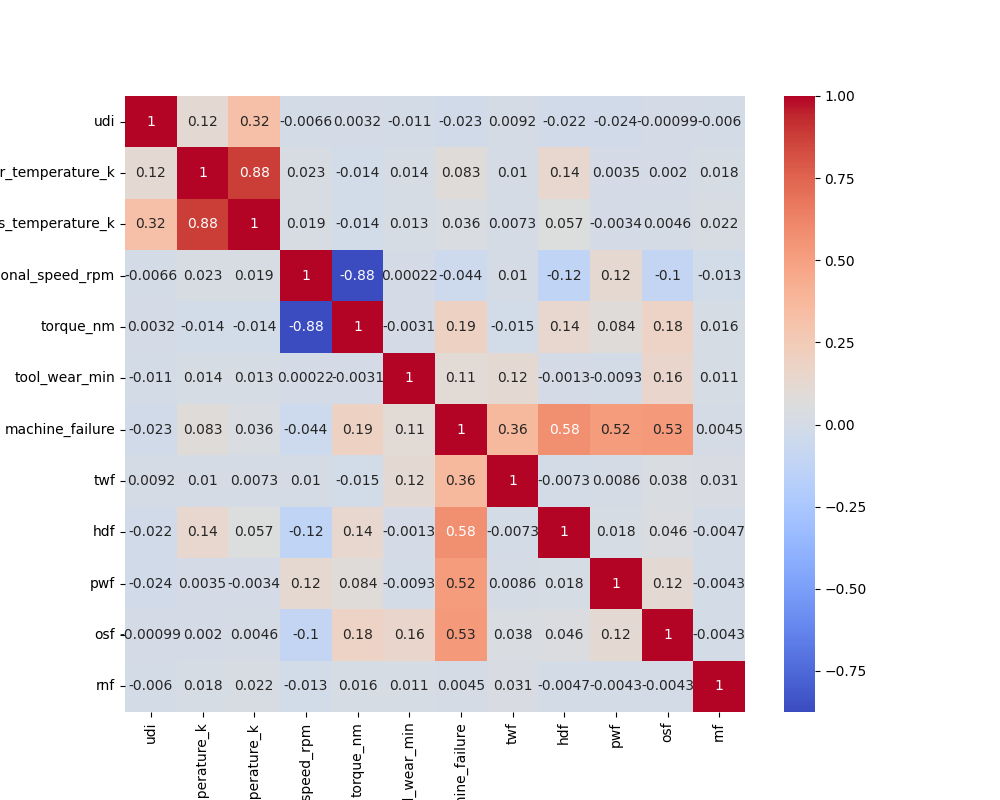
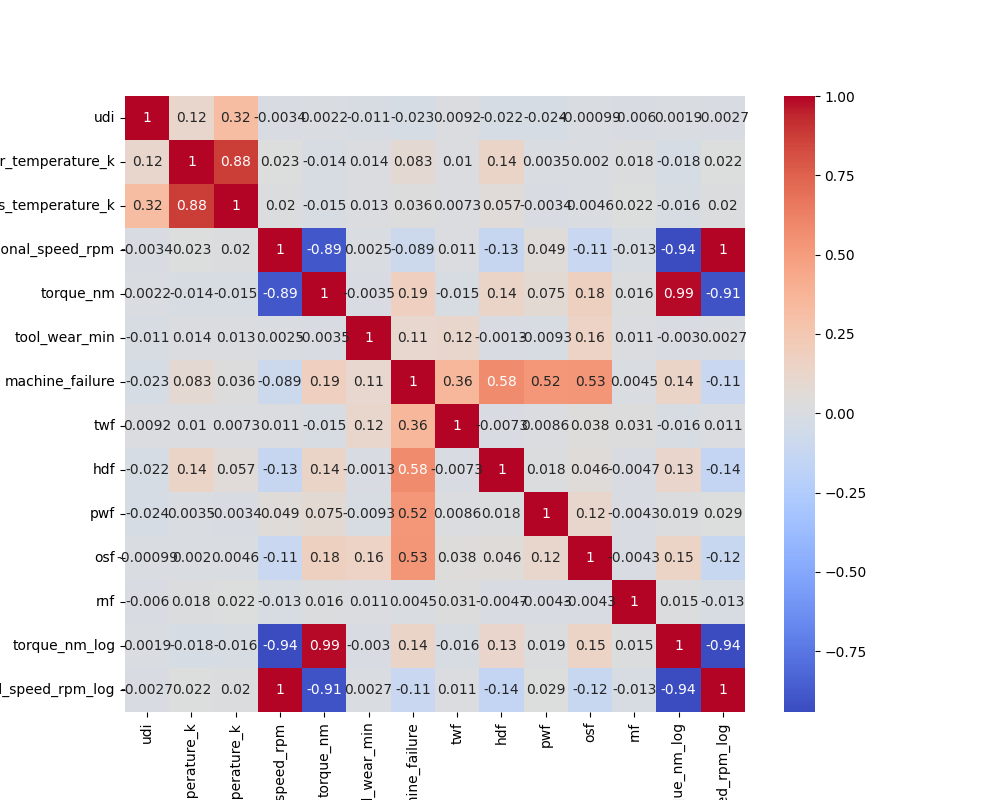
torque/rotational speed feature engineering

diff --git a/database_connection.py b/database_connection.py
@@ -5,6 +5,7 @@ from psycopg2 import pool # pool is used to manage a pool of db connections
 import pandas as pd # data analysis module  
 import matplotlib.pyplot as plt # matplotlib is a plotting library
 import seaborn as sns #data visualization library
+import numpy as np
 
 # Create a dictionary for saving plots if it doesn't exist
 output_dir = 'plots'
@@ -17,6 +18,22 @@ if not os.path.exists(output_dir):
 # can just use file name in this case because PM-Data.csv is in the same project directory as database_connection.py
 data = pd.read_csv('PM-Data.csv')
 
+# capping and flooring for 'torque_nm'
+# for identifying outliers using statistical percentiles
+q_low = data['torque_nm'].quantile(0.01)
+q_high = data['torque_nm'].quantile(0.99)
+data['torque_nm'] = data['torque_nm'].clip(lower=q_low, upper=q_high)
+
+# capping and flooring for 'rotational_speed_rpm'
+# for identifying outliers using statistical percentiles
+q_low = data['rotational_speed_rpm'].quantile(0.01)
+q_high = data['rotational_speed_rpm'].quantile(0.99)
+data['rotational_speed_rpm'] = data['rotational_speed_rpm'].clip(lower=q_low, upper=q_high)
+
+# Applying logarithmic transformation
+data['torque_nm_log'] = np.log1p(data['torque_nm'])
+data['rotational_speed_rpm_log'] = np.log1p(data['rotational_speed_rpm'])
+
 # summarizing of data...describe() generates descriptive statistics that summarize the central tendency(mean, median, mode),
 # dispersion(e.g. range, variance, and standard deviation), and shape of a dataset's distribution, excluding NaN values
 summary_stats = data.describe()
@@ -28,7 +45,7 @@ print(missing_values)
 
 # Histograms for numerical features
 # list of specified columns in the dataset
-numerical_features = ['air_temperature_k', 'process_temperature_k', 'rotational_speed_rpm', 'torque_nm', 'tool_wear_min']
+numerical_features = ['air_temperature_k', 'process_temperature_k', 'rotational_speed_rpm', 'torque_nm', 'tool_wear_min', 'torque_nm_log', 'rotational_speed_rpm_log']
 # selects the columns specified in the numerical_features list in the dataframe 'data'
 # then creates a histogram of each of numerical_features columns specified with 15 bins each and figure size of 15x10 
 data[numerical_features].hist(bins=15, figsize=(15, 10))
